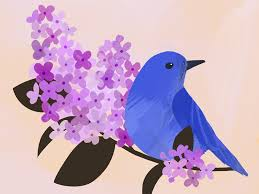
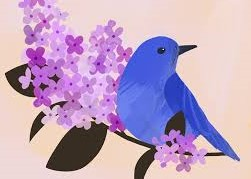
updates

diff --git a/assignments/weathersite/css/small-8.css b/assignments/weathersite/css/small-8.css
@@ -6,6 +6,7 @@
 header {
     display: flex;
     justify-content: center;
+    border-radius: 3em;
 }
 
 header img {
@@ -13,7 +14,7 @@ header img {
     align-self: center;
 }
 
- 
+
 title {
     font-family: 'Lucida Sans', 'Lucida Sans Regular', 'Lucida Grande', 'Lucida Sans Unicode', Geneva, Verdana, sans-serif;
     font-size: 1rem;
@@ -24,7 +25,7 @@ header h1 {
         /* x.xrem  (rem is a unit of measure) */
     ;
     color: white;
-        /* #xxxxxx */
+    /* #xxxxxx */
     ;
     text-align: center;
     padding: 15px;
@@ -36,10 +37,7 @@ article h1 {
     font-size: 2em;
     text-align: center;
 }
-article p{
-    font-size: 1em;
-    font-family: 'Lucida Sans', 'Lucida Sans Regular', 'Lucida Grande', 'Lucida Sans Unicode', Geneva, Verdana, sans-serif;
-}
+
 
 section h1 {
     padding: 15px;
@@ -92,7 +90,7 @@ footer {
     font-family: 'Lucida Sans', 'Lucida Sans Regular', 'Lucida Grande', 'Lucida Sans Unicode', Geneva, Verdana, sans-serif;
     text-align: center;
     background-color: rgb(72, 128, 72);
-        /* */
+    /* */
     ;
     color: black;
     border: none;
@@ -101,7 +99,7 @@ footer {
 nav {
     background-color: rgb(20, 33, 148);
     margin: 0;
-       
+
 
 }
 
@@ -130,7 +128,7 @@ nav ul.hide {
 }
 
 nav li.active {
-    background-color:rgb(72, 128, 72);
+    background-color: rgb(72, 128, 72);
     color: white;
 }
 
@@ -161,12 +159,15 @@ section.hero div {
     left: 15px;
     background-color: rgba(72, 128, 72, 0.6);
 
-} 
+}
+
 main.div p {
-    padding-top: 200px; padding-bottom: 200px;
+    padding-top: 200px;
+    padding-bottom: 200px;
     font-family: 'Lucida Sans', 'Lucida Sans Regular', 'Lucida Grande', 'Lucida Sans Unicode', Geneva, Verdana, sans-serif;
     font-size: 2.5em;
 }
+
 main.img {
     padding: 15px 0 0 15px;
 }
@@ -194,6 +195,7 @@ section.forecast {
 section.forecast img {
     max-width: auto;
 }
+
 section.forecast th {
     font-size: 1.25em;
 }
@@ -202,11 +204,15 @@ article img {
     max-width: 50%;
     padding: 20px;
 }
+
 article p {
     max-width: 700px;
     margin: auto;
-      
+    padding-bottom: 20px;
+    font-size: 1em;
+    font-family: 'Lucida Sans', 'Lucida Sans Regular', 'Lucida Grande', 'Lucida Sans Unicode', Geneva, Verdana, sans-serif;
 }
+
 div.gallery {
     display: grid;
     grid-template-columns: (1fr 100%);
@@ -214,9 +220,9 @@ div.gallery {
     grid-gap: 50px;
     margin: auto;
     align-items: center;
-    }
+}
 
-div.address  {
+div.address {
     align-self: auto;
     font-size: 1.25em;
     color: white;
@@ -244,52 +250,88 @@ footer {
     margin-top: 0px;
     border-radius: 3em;
 }
+
 /*Home page*/
 
 section.home {
     display: grid;
-    grid-gap: 15px;
+    grid-gap: 25px;
     margin-top: 50px;
     margin-bottom: 50px;
+    font-size: 1.25em;
+    color:white;
+}
+section.home article p {
+    padding: 10px;
+    font-size: 1em;
+    color: navy;
+}
+section.home h2 {
+    font-size: 1.75em;
 }
 
 section.home img {
-    max-width: 100%;
+    max-width: 80%;
+    margin-top: 15px;
+}
+div.homepage img {
     margin-top: 30px;
-}
-section.home article:nth-of-type(1){
-    order:3;  
-}
-section.home article:nth-of-type(2){
-    order:1;  
-}
-section.home article:nth-of-type(3){
-    order:2;  
+    max-width: 75%;
+   }
+section.home main img {
+    max-width: 50%;
+    padding: 25px;
+}  
+
+section.home main p {
+    font-size: 2em;
+    color: white;
+    margin-bottom: 25px;
+    }
+
+section.home article:nth-of-type(1) {
+    order: 3;
 }
 
-.events ul{
+section.home article:nth-of-type(2) {
+    order: 1;
+}
+
+section.home article:nth-of-type(3) {
+    order: 2;
+}
+
+/*Current Events*/
+
+.events ul {
     list-style-type: none;
     padding: 0;
 
 }
+
 .events {
-     max-width: 400px;
+    max-width: 400px;
     margin: 20px auto;
     padding-bottom: 20px;
-    background-color:  rgba(72, 128, 72, 0.6);
+    background-color: rgba(72, 128, 72, 0.6);
     border-radius: 3em;
-    
+
 }
+
 .events h2 {
     color: white;
     font-size: 3em;
     font-family: 'Lucida Sans', 'Lucida Sans Regular', 'Lucida Grande', 'Lucida Sans Unicode', Geneva, Verdana, sans-serif;
 
 }
+
 .events img {
-    padding-bottom: 20px; padding-top: 20px ;
+    padding-bottom: 20px;
+    padding-top: 20px;
 }
+
 .events div {
     font-size: 1.5em;
     padding-bottom: 20px;
+    color: white;
 }

diff --git a/assignments/weathersite/fishhaven.html b/assignments/weathersite/fishhaven.html
@@ -94,13 +94,14 @@
         <article> 
             <h1>Current Weather Story</h1>
             <img src="images/fishhavenstory.jpg" alt="Opps logo didn't load">
-                    
+               
             <p>February 2019 was the planet's fifth warmest February since record keeping began in 1880, said NOAA's National Centers for Environmental Information (NCEI) on Monday. According to NOAA, the only warmer Februries were in 2016, 2017, 2015, and 1998. NASA rated February 2019 as the third warmest February on record, behind only 2016 and 2017. Minor differences in rankings between NASA and NOAA can arise because of how they handle data-sparse regions such as the Arctic, where few surface weather stations exist. The Japan Meteorological Agency ranked February as the fourth warmest since 1891.
 
                 Global ocean temperatures during February 2019 were the second warmest on record, according to NOAA, while global land temperatures were only the fifteenth warmest on record, as the land readings were brought down by the widespread cold across North America. It was the second warmest February on record for the Southern Hemisphere. The December-through-February Northern Hemisphere winter was the sixth warmest on record, while the Southern Hemisphere December-through-February summer temperatures were the second warmest on record.
                 
                 Global satellite-measured temperatures in February 2019 for the lowest 8 km of the atmosphere were the fifth or fourth warmest in the 41-year record, according to the University of Alabama Huntsville (UAH) and RSS, respectively.
             </p>
+                 
         </article>
     </main>
     <footer>

diff --git a/assignments/weathersite/home.html b/assignments/weathersite/home.html
@@ -36,16 +36,22 @@
             <li><a href="gallary-7.html">Gallery</a></li>
 
         </ul>
-    </nav>  
+    </nav>
     <main>
-        <section class= "home">
+        <div class='homepage'>
+            <img src="images/idaho.jpg" alt="Welcome">
+        </div>
+        <section class="home">
 
         </section>
 
-        <div class= 'homepage'>
-                        <img src="images/idaho.jpg" alt="State Bird and Flower">
-        </div>
-    </main>      
+        <p>Great Potatoes. Tasty Destinations.</p>
+        <img src="images/idahoflag.png" alt="State Seal">
+        <img src="images/idahoflowerbird.jpg" alt="State Bird and Flower">
+
+
+
+    </main>
 
 
 
@@ -76,6 +82,7 @@
     <script src="script/windchill.js"></script>
     <script src="script/stormcenter.js"></script>
     <script src="script/home.js"></script>
-    
+
 </body>
+
 </html>

diff --git a/assignments/weathersite/css/large-8.css b/assignments/weathersite/css/large-8.css
@@ -46,6 +46,8 @@
     padding: 1.2rem;
     text-align: center;
     background-color: whitesmoke;
+    margin-left: 3px; margin-right: 3px;
+
   }
 
   .forecast {
